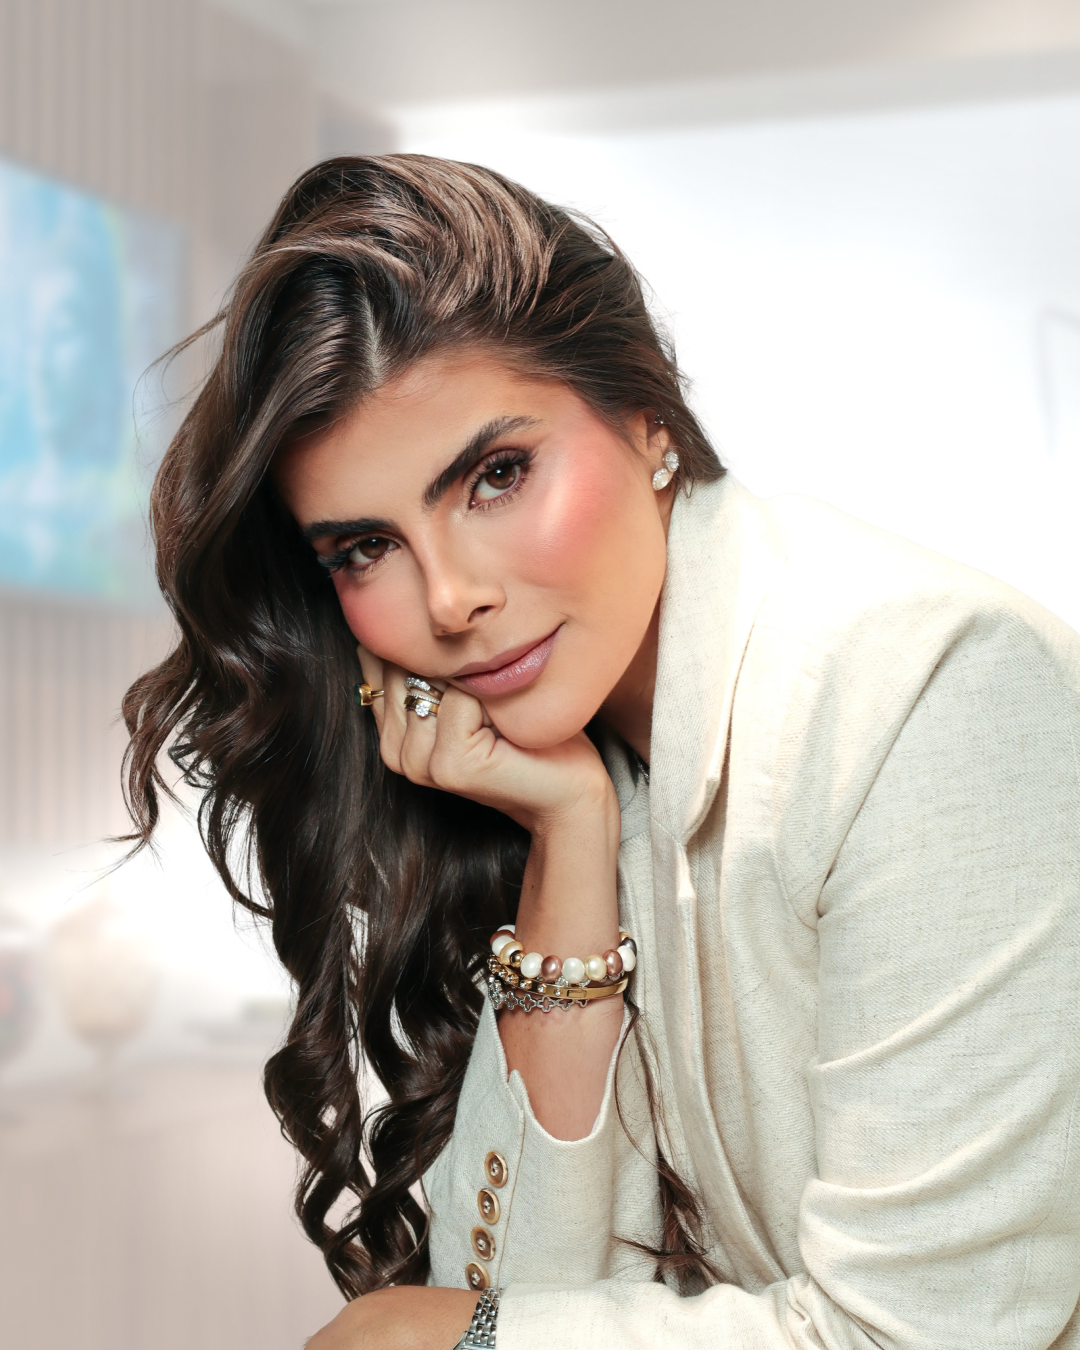
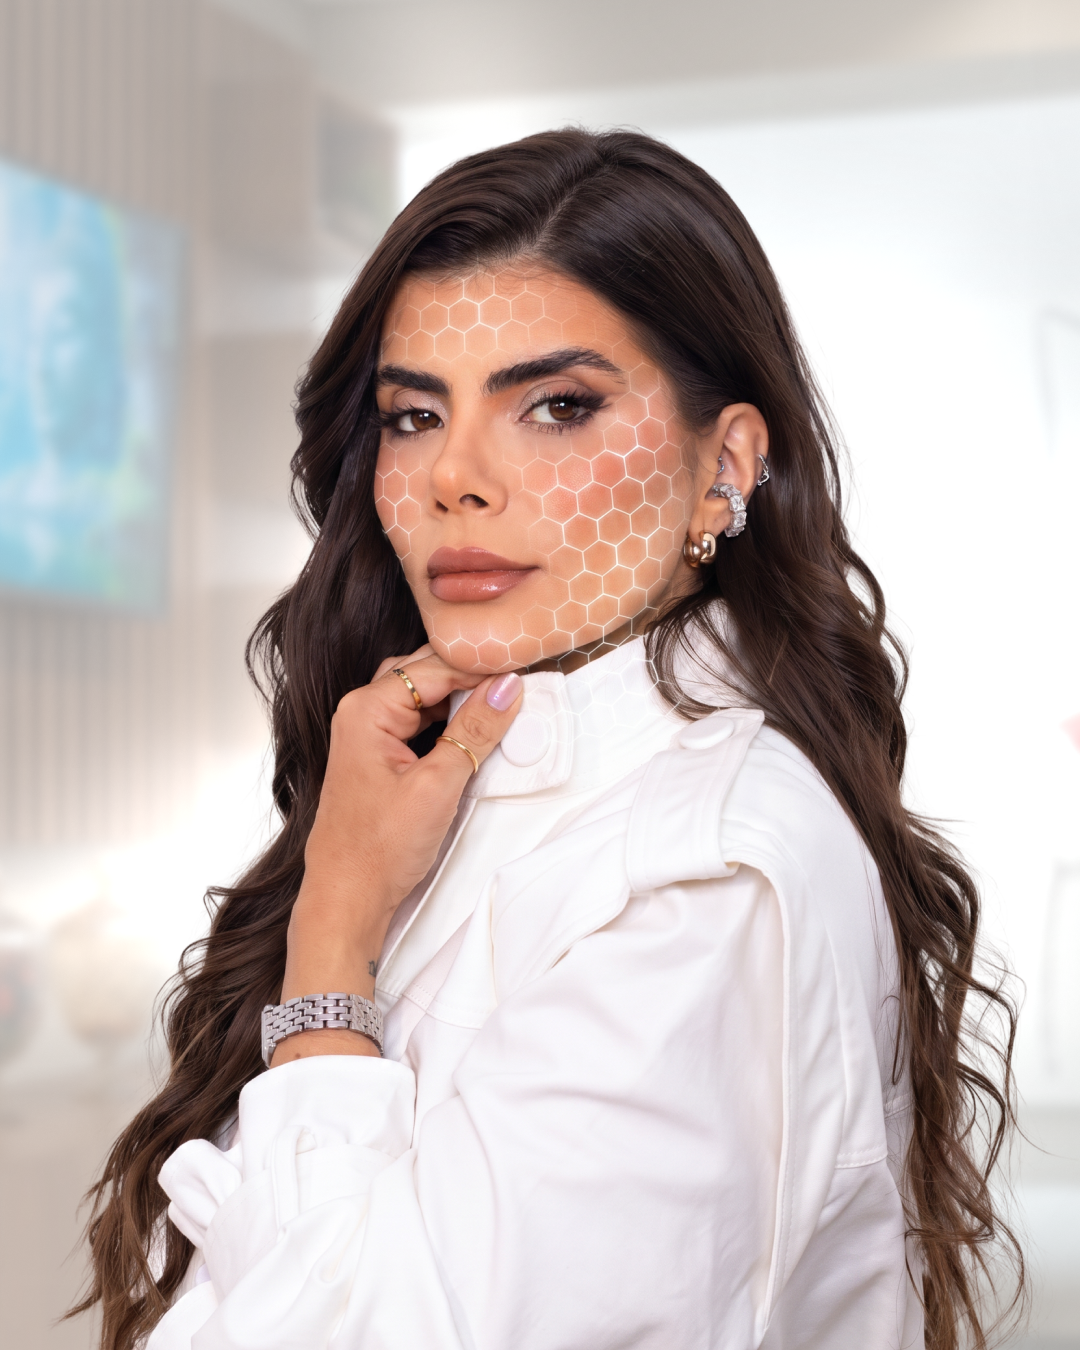
Add files via upload

diff --git a/index.html b/index.html
@@ -15,7 +15,7 @@
     <meta property="og:title" content="Clínica Jordana Barros — Estética e Harmonização Orofacial">
     <meta property="og:description" content="Sua melhor versão começa aqui. Muito mais que procedimentos, um cuidado personalizado que entende quem você é.">
     <meta property="og:url" content="https://www.clinicajordanabarros.com.br/">
-    <meta property="og:image" content="/assets/og-image-placeholder.jpg">
+    <meta property="og:image" content="assets/og-image-placeholder.jpg">
 
     <!-- Fontes Premium do Google Fonts (Cormorant Garamond & Manrope) -->
     <link rel="preconnect" href="https://fonts.googleapis.com">
@@ -99,8 +99,8 @@
       }
     }
     </script>
-  <script type="module" crossorigin src="./assets/index.Df4an_xH.js"></script>
-  <link rel="stylesheet" crossorigin href="./assets/index.BGvoUsd_.css">
+  <script type="module" crossorigin src="./assets/index.C8v16vC0.js"></script>
+  <link rel="stylesheet" crossorigin href="./assets/index.7_inCxo1.css">
 </head>
 <body>
 
@@ -108,7 +108,7 @@
     <header class="main-header">
         <div class="header-container">
             <a href="#" class="logo-area" aria-label="Página Inicial Clínica Jordana Barros">
-                <img src="./assets/logo-clinicajordana.svg" alt="Logo Clínica Jordana Barros" class="logo-img">
+                <img src="./assets/logo-clinicajordana.CLubRBv8.svg" alt="Logo Clínica Jordana Barros" class="logo-img">
             </a>
             <nav class="nav-menu" aria-label="Navegação Principal">
                 <a href="#experiencia" class="nav-link">A Clínica</a>
@@ -135,9 +135,9 @@
                 <div class="hero-content scroll-reveal">
                     <span class="section-tag gold-text">UM CONVITE AO SEU SONHO</span>
                     <h1 class="hero-title">Sua melhor versão começa aqui.</h1>
-                    <p class="hero-subtitle">
-                        Muito mais que procedimentos, um cuidado personalizado que entende quem você é e o que você deseja para a sua pele. Vamos juntas transformar o seu autocuidado?
-                    </p>
+                    <h2 class="hero-subtitle">
+                        Muito além de procedimentos isolados, oferecemos um cuidado personalizado que compreende a harmonia do seu rosto e do seu corpo, respeitando sempre a sua identidade. Vamos juntos transformar o seu autocuidado em um estilo de vida?
+                    </h2>
                     <div class="hero-actions">
                         <a href="#" class="btn btn-gold js-whatsapp-btn" data-origin="Hero Principal">
                             <span>Converse com a gente</span>
@@ -154,17 +154,19 @@
             <div class="section-container">
                 <div class="experience-grid">
                     <!-- Esquerda: Carrossel do Espaço -->
-                    <div class="space-carousel-wrapper scroll-reveal">
-                        <div class="space-carousel-track-container">
-                            <div class="space-carousel-track" id="spaceCarouselTrack">
-                                <div class="space-carousel-slide">
-                                    <img src="./assets/foto-recepção.jpg" alt="Recepção Aconhedora da Clínica Jordana Barros" class="space-carousel-img">
-                                </div>
-                                <div class="space-carousel-slide">
-                                    <img src="./assets/café-gourmet.jpg" alt="Café Gourmet e Acolhimento Exclusivo" class="space-carousel-img">
-                                </div>
-                                <div class="space-carousel-slide">
-                                    <img src="./assets/foto-espera.jpg" alt="Nosso Refúgio de Bem-Estar" class="space-carousel-img">
+                    <div class="space-carousel-container scroll-reveal">
+                        <div class="space-carousel-wrapper">
+                            <div class="space-carousel-track-container">
+                                <div class="space-carousel-track" id="spaceCarouselTrack">
+                                    <div class="space-carousel-slide">
+                                        <img src="./assets/foto-recepcao.CAFUkFNI.jpg" alt="Recepção Aconhedora da Clínica Jordana Barros" class="space-carousel-img">
+                                    </div>
+                                    <div class="space-carousel-slide">
+                                        <img src="./assets/cafe-gourmet.CMmhCZ-3.jpg" alt="Café Gourmet e Acolhimento Exclusivo" class="space-carousel-img">
+                                    </div>
+                                    <div class="space-carousel-slide">
+                                        <img src="./assets/foto-espera.DFV8MQ5g.jpg" alt="Nosso Refúgio de Bem-Estar" class="space-carousel-img">
+                                    </div>
                                 </div>
                             </div>
                         </div>
@@ -181,10 +183,10 @@
                         <h2 class="section-title">A Clínica Jordana Barros</h2>
                         <div class="section-divider"></div>
                         <p class="section-paragraph text-highlight">
-                            A Clínica Jordana Barros não é apenas um consultório. É o lugar onde a gente para o tempo para focar no que realmente importa: você, sua autoestima e a sua experiência.
+                            A Clínica Jordana Barros não é apenas um consultório. É um espaço onde não sentimos o tempo passar, desenhado para focar no que realmente importa: você.
                         </p>
                         <p class="section-paragraph">
-                            Aqui, cada detalhe foi planejado para que você se sinta em casa, cuidada por uma equipe que prioriza a sua escuta e o seu bem-estar acima de tudo. Entendemos que beleza não é sobre padrões, é sobre a sua essência. Nós cuidamos do seu rosto respeitando a sua identidade, valorizando o que você já tem de mais belo.
+                            Aliamos um atendimento profundamente acolhedor ao investimento constante nas melhores tecnologias e ativos do mercado, cuidando da sua autoestima e elevando a sua experiência. Afinal, para nós, a verdadeira beleza não segue padrões, ela respeita a sua identidade e valoriza a sua essência única.
                         </p>
                         <div class="experience-cta">
                             <a href="#" class="btn btn-outline js-whatsapp-btn" data-origin="Dobra A Clinica">
@@ -205,35 +207,67 @@
                     <!-- Esquerda: Informações da Dra. Jordana -->
                     <div class="authority-content scroll-reveal">
                         <span class="section-tag gold-text">O NOSSO JEITO DE CUIDAR</span>
-                        <h2 class="section-title">Cuidado que acolhe e transforma</h2>
-                        <div class="section-divider"></div>
+                        <h2 class="dra-name">Dra. Jordana Barros</h2>
+                        <p class="cro-tag">CRO-MG 41435</p>
                         
-                        <p class="section-paragraph text-highlight">
-                            Nossa atuação é guiada pela sensibilidade, pela escuta ativa e pelo compromisso em realizar o seu sonho de autocuidado.
-                        </p>
-                        
-                        <ul class="curriculum-list">
-                            <li class="curriculum-item">
-                                <svg class="curriculum-icon" xmlns="http://www.w3.org/2000/svg" fill="none" viewBox="0 0 24 24" stroke="currentColor">
-                                    <path stroke-linecap="round" stroke-linejoin="round" stroke-width="1.8" d="M5 13l4 4L19 7" />
-                                </svg>
-                                Criadora do autoral Ageless Skin Protocol™
-                            </li>
-                            <li class="curriculum-item">
-                                <svg class="curriculum-icon" xmlns="http://www.w3.org/2000/svg" fill="none" viewBox="0 0 24 24" stroke="currentColor">
-                                    <path stroke-linecap="round" stroke-linejoin="round" stroke-width="1.8" d="M5 13l4 4L19 7" />
-                                </svg>
-                                Referência em rejuvenescimento facial
-                            </li>
-                            <li class="curriculum-item">
-                                <svg class="curriculum-icon" xmlns="http://www.w3.org/2000/svg" fill="none" viewBox="0 0 24 24" stroke="currentColor">
-                                    <path stroke-linecap="round" stroke-linejoin="round" stroke-width="1.8" d="M5 13l4 4L19 7" />
-                                </svg>
-                                Formando especialistas em HOF
-                            </li>
-                        </ul>
-                        
-                        <p class="cro-tag">CRO 41435</p>
+                        <div class="curriculum-timeline">
+                            <div class="curriculum-card">
+                                <h3 class="curriculum-card-title">Fundação Sólida</h3>
+                                <p class="curriculum-card-text">Cirurgiã-Dentista graduada pela PUC Minas (2012).</p>
+                            </div>
+                            
+                            <div class="curriculum-card">
+                                <h3 class="curriculum-card-title">Mestrado e Especialização</h3>
+                                <p class="curriculum-card-text">Ortodontia e Ortopedia Funcional dos Maxilares — a base para o diagnóstico estrutural tridimensional da face.</p>
+                            </div>
+                            
+                            <div class="curriculum-card">
+                                <h3 class="curriculum-card-title">Especializações de Vanguarda</h3>
+                                <p class="curriculum-card-text">Especialista em Harmonização Orofacial (HOF) e Implantodontia.</p>
+                            </div>
+                            
+                            <div class="curriculum-card">
+                                <h3 class="curriculum-card-title">Autoridade de Mercado</h3>
+                                <p class="curriculum-card-text">Speaker oficial PHARMAESTHETICS e certificada Skin Pro por Anna Pegova.</p>
+                            </div>
+                            
+                            <div class="curriculum-card">
+                                <h3 class="curriculum-card-title">Educação e Inovação</h3>
+                                <p class="curriculum-card-text">CEO da Clínica e do Instituto Jordana Barros, criadora do método Ageless Skin Protocol™ e do treinamento avançado online HOF Setup.</p>
+                            </div>
+                        </div>
+
+                        <!-- Conexões Internacionais -->
+                        <div class="intl-connections-section">
+                            <h3 class="intl-title">Bagagem & Conexões Internacionais</h3>
+                            <p class="intl-subtitle">Nossos protocolos acompanham o que está acontecendo no topo do mercado global:</p>
+                            
+                            <div class="intl-connections-grid">
+                                <div class="intl-connection-card">
+                                    <span class="intl-year">2026</span>
+                                    <div class="intl-info">
+                                        <h4 class="intl-location">🌍 Mônaco</h4>
+                                        <p class="intl-details">Atualização no AMWC (Aesthetic & Anti-Aging Medicine World Congress).</p>
+                                    </div>
+                                </div>
+                                
+                                <div class="intl-connection-card">
+                                    <span class="intl-year">2025</span>
+                                    <div class="intl-info">
+                                        <h4 class="intl-location">🌍 Coreia do Sul</h4>
+                                        <p class="intl-details">Imersão no berço mundial da tecnologia da pele e estética regenerativa.</p>
+                                    </div>
+                                </div>
+                                
+                                <div class="intl-connection-card">
+                                    <span class="intl-year">2026</span>
+                                    <div class="intl-info">
+                                        <h4 class="intl-location">🌍 Chile</h4>
+                                        <p class="intl-details">Integração no Toxin Experts, o centro de discussões avançadas em toxina botulínica.</p>
+                                    </div>
+                                </div>
+                            </div>
+                        </div>
                         
                         <div class="authority-cta">
                             <a href="#" class="btn btn-gold js-whatsapp-btn" data-origin="Dobra Jeito de Cuidar">
@@ -242,9 +276,16 @@
                         </div>
                     </div>
                     
-                    <!-- Direita: Imagem de Atendimento -->
+                    <!-- Direita: Imagens da Dra. Jordana (Staggered Grid) -->
                     <div class="authority-image-wrapper scroll-reveal">
-                        <img src="./assets/foto-atendimento.jpg" alt="Dra. Jordana Barros realizando atendimento humanizado" class="authority-img-photo">
+                        <div class="bio-photo-grid">
+                            <div class="bio-img-primary-wrapper">
+                                <img src="./assets/foto-jordana.C6lESZ6M.JPEG" alt="Dra. Jordana Barros" class="bio-img-primary">
+                            </div>
+                            <div class="bio-img-secondary-wrapper">
+                                <img src="./assets/foto-atendimento.Lvo3y8vh.jpg" alt="Dra. Jordana Barros em atendimento" class="bio-img-secondary">
+                            </div>
+                        </div>
                     </div>
                 </div>
             </div>
@@ -373,7 +414,7 @@
                             <div class="carousel-slide">
                                 <div class="ba-card">
                                     <div class="ba-single-image">
-                                        <img src="./assets/antes-depois1.jpg" alt="Antes e Depois — Caso 1" class="ba-img" loading="lazy">
+                                        <img src="assets/antes-depois1.jpg" alt="Antes e Depois — Caso 1" class="ba-img" loading="lazy">
                                     </div>
                                 </div>
                             </div>
@@ -382,7 +423,7 @@
                             <div class="carousel-slide">
                                 <div class="ba-card">
                                     <div class="ba-single-image">
-                                        <img src="./assets/antes-depois2.jpg" alt="Antes e Depois — Caso 2" class="ba-img" loading="lazy">
+                                        <img src="assets/antes-depois2.jpg" alt="Antes e Depois — Caso 2" class="ba-img" loading="lazy">
                                     </div>
                                 </div>
                             </div>
@@ -391,7 +432,7 @@
                             <div class="carousel-slide">
                                 <div class="ba-card">
                                     <div class="ba-single-image">
-                                        <img src="./assets/antes-depois3.jpg" alt="Antes e Depois — Caso 3" class="ba-img" loading="lazy">
+                                        <img src="assets/antes-depois3.jpg" alt="Antes e Depois — Caso 3" class="ba-img" loading="lazy">
                                     </div>
                                 </div>
                             </div>
@@ -400,7 +441,7 @@
                             <div class="carousel-slide">
                                 <div class="ba-card">
                                     <div class="ba-single-image">
-                                        <img src="./assets/antes-depois4.jpg" alt="Antes e Depois — Caso 4" class="ba-img" loading="lazy">
+                                        <img src="assets/antes-depois4.jpg" alt="Antes e Depois — Caso 4" class="ba-img" loading="lazy">
                                     </div>
                                 </div>
                             </div>
@@ -409,7 +450,7 @@
                             <div class="carousel-slide">
                                 <div class="ba-card">
                                     <div class="ba-single-image">
-                                        <img src="./assets/antes-depois5.JPG" alt="Antes e Depois — Caso 5" class="ba-img" loading="lazy">
+                                        <img src="assets/antes-depois5.JPG" alt="Antes e Depois — Caso 5" class="ba-img" loading="lazy">
                                     </div>
                                 </div>
                             </div>
@@ -418,7 +459,7 @@
                             <div class="carousel-slide">
                                 <div class="ba-card">
                                     <div class="ba-single-image">
-                                        <img src="./assets/antes-depois6.JPG" alt="Antes e Depois — Caso 6" class="ba-img" loading="lazy">
+                                        <img src="assets/antes-depois6.JPG" alt="Antes e Depois — Caso 6" class="ba-img" loading="lazy">
                                     </div>
                                 </div>
                             </div>
@@ -427,7 +468,7 @@
                             <div class="carousel-slide">
                                 <div class="ba-card">
                                     <div class="ba-single-image">
-                                        <img src="./assets/antes-depois7.jpg" alt="Antes e Depois — Caso 7" class="ba-img" loading="lazy">
+                                        <img src="assets/antes-depois7.jpg" alt="Antes e Depois — Caso 7" class="ba-img" loading="lazy">
                                     </div>
                                 </div>
                             </div>
@@ -607,7 +648,7 @@
     <footer class="main-footer">
         <div class="footer-container">
             <div class="footer-brand">
-                <img src="./assets/logo-clinicajordana.svg" alt="Logo Clínica Jordana Barros" class="logo-img-footer">
+                <img src="./assets/logo-clinicajordana.CLubRBv8.svg" alt="Logo Clínica Jordana Barros" class="logo-img-footer">
             </div>
             
             <div class="footer-info">
@@ -617,6 +658,12 @@
                         <path stroke-linecap="round" stroke-linejoin="round" stroke-width="1.5" d="M15 11a3 3 0 11-6 0 3 3 0 016 0z" />
                     </svg>
                     Rua Major Lopes, Belo Horizonte - MG
+                </p>
+                <p class="footer-phone">
+                    <svg xmlns="http://www.w3.org/2000/svg" fill="none" viewBox="0 0 24 24" stroke="currentColor" class="footer-icon">
+                        <path stroke-linecap="round" stroke-linejoin="round" stroke-width="1.5" d="M3 5a2 2 0 012-2h3.28a1 1 0 01.94.725l.548 2.2a1 1 0 01-.321.988l-1.305.98a10.582 10.582 0 004.872 4.872l.98-1.305a1 1 0 01.988-.321l2.2.548a1 1 0 01.725.94V19a2 2 0 01-2 2h-1C9.716 21 3 14.284 3 6V5z" />
+                    </svg>
+                    <a href="https://wa.me/5531999104501" target="_blank" rel="noopener noreferrer" class="footer-phone-link">+55 (31) 99910-4501</a>
                 </p>
                 <p class="footer-cro">
                     Dra. Jordana Barros · CRO-MG 41435

diff --git a/assets/index.7_inCxo1.css b/assets/index.7_inCxo1.css
@@ -1,0 +1,1 @@
+@font-face{font-family:Elsie Swash Caps;src:url(./ElsieSwashCaps-Regular.CObMUHsu.ttf) format("truetype");font-weight:400;font-style:normal;font-display:swap}@font-face{font-family:Elsie Swash Caps;src:url(./ElsieSwashCaps-Black.hFjvdWo1.ttf) format("truetype");font-weight:900;font-style:normal;font-display:swap}:root{--color-bg-primary: #FAF8F5;--color-bg-secondary: #FFFFFF;--color-bg-tertiary: #F3EFEA;--color-text-primary: #2D2521;--color-text-secondary: #60544E;--color-text-light: #9B8E85;--color-border: #E8E3DB;--color-border-hover: #D6CDBF;--color-gold: #C5A059;--color-gold-hover: #B28D46;--color-gold-light: rgba(197, 160, 89, .08);--color-whatsapp: #25D366;--font-serif: "Manrope", sans-serif;--font-sans: "Manrope", sans-serif;--spacing-xs: .5rem;--spacing-sm: 1rem;--spacing-md: 2rem;--spacing-lg: 6rem;--spacing-xl: 10rem;--transition-fast: .2s ease;--transition-normal: .4s cubic-bezier(.25, .46, .45, .94);--transition-slow: .7s cubic-bezier(.16, 1, .3, 1);--shadow-premium: 0 10px 40px rgba(45, 37, 33, .02);--shadow-card: 0 20px 50px rgba(45, 37, 33, .03);--shadow-glass: 0 8px 32px rgba(197, 160, 89, .05)}*{margin:0;padding:0;box-sizing:border-box}html{scroll-behavior:smooth;font-size:16px}body{font-family:var(--font-sans);color:var(--color-text-primary);background-color:var(--color-bg-primary);line-height:1.8;-webkit-font-smoothing:antialiased;overflow-x:hidden}a:focus-visible,button:focus-visible{outline:2px solid var(--color-gold);outline-offset:4px}h1,h2,h3,h4{font-family:var(--font-serif);font-weight:700;line-height:1.25;letter-spacing:-.02em;color:var(--color-text-primary)}.white-text{color:var(--color-bg-secondary)!important}.gold-text{color:var(--color-gold)!important}.light-gray-text{color:var(--color-text-light)!important}.section-tag{font-family:var(--font-sans);font-size:.75rem;font-weight:600;letter-spacing:.2em;text-transform:uppercase;display:inline-block;margin-bottom:1rem}.section-title{font-size:2.2rem;margin-bottom:1.5rem;text-wrap:balance;font-weight:300}.section-subtitle{font-size:1.15rem;color:var(--color-text-secondary);max-width:650px;margin:0 auto;font-weight:300;line-height:1.7}.section-divider{width:50px;height:1px;background-color:var(--color-gold);margin-bottom:2rem}.center-divider{margin-left:auto;margin-right:auto}.gold-bg{background-color:var(--color-gold)!important}.section-paragraph{margin-bottom:1.5rem;font-size:1.05rem;color:var(--color-text-secondary)}.section-paragraph.text-highlight{font-size:1.25rem;color:var(--color-text-primary);font-weight:400;line-height:1.7}.section-paragraph.text-highlight-white{font-size:1.25rem;color:var(--color-bg-secondary);font-weight:300;line-height:1.7}.section-paragraph.text-strong-gold{color:var(--color-gold);font-weight:500}.section-container{max-width:1200px;margin:0 auto;padding:var(--spacing-lg) var(--spacing-md)}@media (min-width: 768px){.section-container{padding:var(--spacing-xl) var(--spacing-md)}.section-title{font-size:3rem}}.btn{display:inline-flex;flex-direction:column;align-items:center;justify-content:center;text-decoration:none;font-family:var(--font-sans);font-weight:500;text-transform:uppercase;font-size:.8rem;letter-spacing:.12em;padding:1.1rem 2.8rem;border-radius:50px;transition:var(--transition-normal),transform .3s cubic-bezier(.16,1,.3,1);position:relative;cursor:pointer;text-align:center;overflow:hidden}.btn:after{content:"";position:absolute;top:0;left:-150%;width:60%;height:100%;background:linear-gradient(90deg,transparent,rgba(255,255,255,.4),transparent);transform:skew(-20deg)}.btn:hover:after{animation:btnShine 1.2s ease-in-out}@keyframes btnShine{0%{left:-150%}to{left:150%}}.btn-gold{background-color:var(--color-gold);color:var(--color-bg-secondary);border:1px solid var(--color-gold);box-shadow:0 10px 25px #c5a05926}.btn-gold:hover{background-color:var(--color-gold-hover);border-color:var(--color-gold-hover);transform:translateY(-3px);box-shadow:0 12px 30px #c5a05940}.btn-gold:active{transform:translateY(-1px)}.btn-subtext{font-size:.65rem;text-transform:none;letter-spacing:.05em;opacity:.9;margin-top:.2rem;font-weight:400}.btn-outline{background-color:transparent;color:var(--color-text-primary);border:1px solid var(--color-border);box-shadow:var(--shadow-premium)}.btn-outline:hover{background-color:var(--color-text-primary);color:var(--color-bg-secondary);border-color:var(--color-text-primary);transform:translateY(-3px);box-shadow:0 10px 25px #2d252114}.btn-outline:active{transform:translateY(-1px)}.btn-nav{padding:.65rem 1.8rem;font-size:.75rem;border:1px solid var(--color-gold);color:var(--color-gold);background-color:transparent;border-radius:50px}.btn-nav:hover{background-color:var(--color-gold);color:var(--color-bg-secondary)}.elegant-placeholder{width:100%;height:100%;min-height:300px;display:flex;flex-direction:column;align-items:center;justify-content:center;position:relative;padding:var(--spacing-md);text-align:center;border:1px solid transparent;transition:var(--transition-normal)}.dark-placeholder{background:linear-gradient(135deg,var(--color-dark-gray) 0%,var(--color-medium-gray) 100%);border-color:#c5a05926}.dark-placeholder:hover{border-color:#c5a05966}.dark-placeholder .placeholder-label,.dark-placeholder .placeholder-label-small{color:var(--color-white)}.dark-placeholder .placeholder-desc{color:#8e8e93}.dark-placeholder .placeholder-icon{stroke:var(--color-gold);opacity:.45}.light-placeholder{background:linear-gradient(135deg,#F2EFE9 0%,var(--color-off-white) 100%);border-color:var(--color-border-light)}.light-placeholder:hover{border-color:var(--color-gold);box-shadow:var(--shadow-premium)}.light-placeholder .placeholder-label-small{color:var(--color-dark-gray)}.light-placeholder .placeholder-icon{stroke:var(--color-dark-gray);opacity:.25}.placeholder-icon{width:48px;height:48px;margin-bottom:1.2rem;transition:var(--transition-normal)}.elegant-placeholder:hover .placeholder-icon{transform:scale(1.1);opacity:.7}.placeholder-label{font-family:var(--font-serif);font-size:1.2rem;letter-spacing:.05em;font-weight:500;margin-bottom:.5rem}.placeholder-label-small{font-family:var(--font-sans);font-size:.7rem;font-weight:700;letter-spacing:.15em;text-transform:uppercase}.placeholder-desc{font-size:.75rem;max-width:280px;line-height:1.5}.placeholder-overlay{position:absolute;top:0;left:0;right:0;bottom:0;background:radial-gradient(circle at center,transparent 30%,rgba(10,10,10,.4) 100%);pointer-events:none}.label-badge{position:absolute;bottom:1rem;background-color:#0a0a0ad9;color:var(--color-white);font-size:.65rem;font-weight:700;letter-spacing:.1em;padding:.4rem .8rem;border:1px solid rgba(255,255,255,.1)}.badge-left{left:1rem}.badge-right{right:1rem;border-color:var(--color-gold);color:var(--color-gold)}.main-header{position:fixed;top:0;left:0;width:100%;z-index:100;background-color:#faf8f599;backdrop-filter:blur(16px);-webkit-backdrop-filter:blur(16px);border-bottom:1px solid rgba(197,160,89,.04);transition:background-color .4s ease,border-bottom .4s ease,box-shadow .4s ease,backdrop-filter .4s ease}.main-header.scrolled{background-color:#ffffffd9;backdrop-filter:blur(20px);-webkit-backdrop-filter:blur(20px);border-bottom:1px solid rgba(197,160,89,.12);box-shadow:0 8px 30px #2d25210a}.header-container{max-width:1300px;margin:0 auto;padding:1.2rem var(--spacing-md);display:flex;align-items:center;justify-content:space-between;transition:padding .4s ease}.main-header.scrolled .header-container{padding:.8rem var(--spacing-md)}.logo-area{display:flex;align-items:center;text-decoration:none}.logo-img{height:60px;width:auto;max-width:100%;object-fit:contain}.logo-img-footer{height:75px;width:auto;max-width:100%;object-fit:contain}.logo-area .brand-name{font-family:var(--font-serif);font-size:1.1rem;font-weight:400;letter-spacing:.1em}.logo-area .brand-subtitle{font-family:var(--font-sans);font-size:.55rem;font-weight:700;letter-spacing:.25em;color:var(--color-gold);margin-top:.1rem}.nav-menu{display:none;gap:var(--spacing-md)}.nav-link{text-decoration:none;font-family:var(--font-sans);font-size:.75rem;font-weight:500;text-transform:uppercase;letter-spacing:.15em;color:var(--color-text-secondary);transition:var(--transition-fast)}.nav-link:hover{color:var(--color-gold)}.header-cta{display:none}@media (min-width: 992px){.nav-menu{display:flex}.header-cta{display:block}}.hero-section{background-color:var(--color-bg-primary);background-image:linear-gradient(180deg,#faf8f5d9,#faf8f5a6,#faf8f533),url(./foto-banner-mobile.BjY-vwmR.png);background-size:cover;background-position:center;background-repeat:no-repeat;padding-top:100px;position:relative;overflow:hidden}.hero-container{max-width:1200px;margin:0 auto;padding:var(--spacing-lg) var(--spacing-md);display:flex;flex-direction:column;gap:var(--spacing-lg)}.hero-content{display:flex;flex-direction:column;justify-content:center;width:100%;z-index:2}.hero-title{color:var(--color-text-primary);font-size:2.8rem;line-height:1.15;margin-bottom:1.5rem;font-weight:700}.hero-subtitle{color:var(--color-text-secondary);font-size:1.1rem;font-weight:400;line-height:1.8;margin-bottom:2.5rem;max-width:580px}.hero-actions{display:flex;flex-direction:column;align-items:flex-start}@media (min-width: 992px){.hero-section{background-image:linear-gradient(to right,#faf8f5f2 35%,#faf8f580 70%,#faf8f500),url(./foto-banner.CVG7EtMg.png);padding-top:120px;min-height:calc(100vh - 20px);display:flex;align-items:center}.hero-container{width:100%}.hero-content{max-width:680px}.hero-title{font-size:3.5rem}}.experience-section{background-color:var(--color-bg-secondary);background-image:linear-gradient(180deg,var(--color-bg-primary) 0%,var(--color-bg-secondary) 100%)}.experience-grid{display:grid;grid-template-columns:1fr;gap:var(--spacing-lg);align-items:center}.space-carousel-wrapper{position:relative;width:100%;overflow:hidden;border-radius:32px;box-shadow:var(--shadow-card);border:1px solid var(--color-border);transform:translateZ(0);isolation:isolate}.space-carousel-track-container{overflow:hidden;width:100%}.space-carousel-track{display:flex;transition:transform var(--transition-slow);width:100%}.space-carousel-slide{min-width:100%;width:100%;flex-shrink:0;aspect-ratio:4 / 3;overflow:hidden}.space-carousel-img{width:100%;height:100%;object-fit:cover;object-position:center;transition:var(--transition-normal)}.space-carousel-wrapper:hover .space-carousel-img{transform:scale(1.03)}.space-carousel-controls{display:flex;align-items:center;justify-content:center;gap:1.5rem;margin-top:1.5rem}.space-carousel-dots{display:flex;gap:.6rem}.space-carousel-dot{width:7px;height:7px;border-radius:50%;background-color:var(--color-border);border:none;cursor:pointer;transition:var(--transition-fast);padding:0}.space-carousel-dot.active{background-color:var(--color-gold);transform:scale(1.25)}.experience-content{display:flex;flex-direction:column;justify-content:center}.experience-cta{margin-top:2rem}@media (min-width: 992px){.experience-grid{grid-template-columns:1fr 1fr;gap:var(--spacing-lg)}}.authority-section{background-color:var(--color-bg-tertiary)}.authority-grid{display:grid;grid-template-columns:1fr;gap:var(--spacing-lg);align-items:flex-start}.authority-content{display:flex;flex-direction:column;justify-content:center}.dra-name{font-family:Elsie Swash Caps,serif;font-size:3rem;font-weight:900;color:var(--color-text-primary);margin-top:.5rem;margin-bottom:.5rem}.authority-content .cro-tag{margin-bottom:3rem}.curriculum-timeline{display:flex;flex-direction:column;gap:2.2rem;margin-bottom:3.5rem}.curriculum-card{border-left:2px solid var(--color-border);padding-left:1.8rem;transition:var(--transition-normal)}.curriculum-card:hover{border-left-color:var(--color-gold)}.curriculum-card-title{font-family:var(--font-sans);font-size:1.05rem;font-weight:700;color:var(--color-text-primary);margin-bottom:.5rem;letter-spacing:.02em}.curriculum-card-text{font-size:.95rem;color:var(--color-text-secondary);line-height:1.7}.intl-connections-section{margin-top:1rem;margin-bottom:4rem;padding-top:3rem;border-top:1px solid var(--color-border)}.intl-title{font-family:var(--font-serif);font-size:1.8rem;font-weight:300;color:var(--color-text-primary);margin-bottom:.8rem}.intl-subtitle{font-size:.95rem;color:var(--color-text-secondary);margin-bottom:2.5rem}.intl-connections-grid{display:grid;grid-template-columns:1fr;gap:2rem}.intl-connection-card{display:flex;flex-direction:column;gap:.5rem}.intl-year{font-family:"Cormorant Garamond",var(--font-serif);font-size:3.5rem;font-weight:300;color:var(--color-gold);line-height:1}.intl-info{display:flex;flex-direction:column;gap:.3rem}.intl-location{font-family:var(--font-sans);font-size:.95rem;font-weight:700;color:var(--color-text-primary)}.intl-details{font-size:.85rem;color:var(--color-text-secondary);line-height:1.5}.authority-cta{margin-top:1rem}.authority-image-wrapper{width:100%}.bio-photo-grid{position:relative;width:100%;height:480px}.bio-img-primary-wrapper{width:80%;height:400px;border-radius:28px;overflow:hidden;box-shadow:var(--shadow-card);border:1px solid var(--color-border)}.bio-img-primary{width:100%;height:100%;object-fit:cover;object-position:center;transition:var(--transition-normal)}.bio-img-secondary-wrapper{position:absolute;right:0;bottom:0;width:58%;height:250px;border-radius:20px;overflow:hidden;box-shadow:var(--shadow-card);border:6px solid var(--color-bg-tertiary)}.bio-img-secondary{width:100%;height:100%;object-fit:cover;object-position:center;transition:var(--transition-normal)}.bio-photo-grid:hover .bio-img-primary{transform:scale(1.02)}.bio-photo-grid:hover .bio-img-secondary{transform:scale(1.04)}@media (min-width: 768px){.intl-connections-grid{grid-template-columns:repeat(3,1fr);gap:1.5rem}.bio-photo-grid{height:600px}.bio-img-primary-wrapper{height:520px}.bio-img-secondary-wrapper{height:320px}}@media (min-width: 992px){.authority-grid{grid-template-columns:1fr 1.15fr;gap:var(--spacing-xl)}.dra-name{font-size:3.8rem}.authority-content{order:1}.authority-image-wrapper{order:2;position:sticky;top:120px}}.protocols-section{background-color:var(--color-bg-secondary)}.section-header{text-align:center;margin-bottom:var(--spacing-lg)}.protocols-grid{display:grid;grid-template-columns:1fr;gap:2rem;margin-bottom:var(--spacing-lg)}.protocol-card{background-color:var(--color-bg-secondary);border:1px solid var(--color-border);border-radius:24px;padding:3rem 2.2rem;display:flex;flex-direction:column;gap:1.2rem;transition:var(--transition-normal);box-shadow:var(--shadow-premium)}.protocol-card:hover{transform:translateY(-5px);border-color:var(--color-border-hover);box-shadow:var(--shadow-card)}.protocol-card-icon{width:32px;height:32px;stroke:var(--color-gold);stroke-width:1.2;margin-bottom:.3rem}.protocol-card-title{font-size:1.4rem;font-weight:400;line-height:1.3;color:var(--color-text-primary)}.protocol-card-tag{font-family:var(--font-sans);font-size:.75rem;font-weight:600;letter-spacing:.05em;color:var(--color-text-light);text-transform:uppercase;margin-top:-.8rem}.protocol-card-quote{font-family:var(--font-serif);font-size:1.15rem;font-style:italic;color:var(--color-gold-hover);line-height:1.4;border-left:2px solid var(--color-gold);padding-left:.8rem;margin:.2rem 0}.protocol-card-text{font-size:.95rem;color:var(--color-text-secondary);line-height:1.75}.protocol-card:hover{transform:translateY(-5px);border-color:var(--color-gold);box-shadow:var(--shadow-card)}.card-image-wrapper{width:100%;height:220px;overflow:hidden}.protocol-img{width:100%;height:100%;object-fit:cover;object-position:center;transition:transform .5s cubic-bezier(.25,1,.5,1)}.protocol-card:hover .protocol-img{transform:scale(1.06)}.card-image-wrapper .elegant-placeholder{min-height:auto}.card-content{padding:2.2rem var(--spacing-md);flex-grow:1;display:flex;flex-direction:column}.card-title{font-size:1.6rem;margin-bottom:1rem}.card-text{font-size:.95rem;color:#636366;line-height:1.7}.protocols-cta{text-align:center}@media (min-width: 768px){.protocols-grid{grid-template-columns:repeat(2,1fr)}}@media (min-width: 992px){.protocols-grid{grid-template-columns:repeat(3,1fr);gap:var(--spacing-md)}}.validation-section{background-color:var(--color-bg-primary);overflow:hidden}.carousel-wrapper{position:relative;max-width:600px;margin:0 auto var(--spacing-lg);padding:0;overflow:hidden}.carousel-track-container{overflow:hidden;width:100%}.carousel-track{display:flex;transition:transform var(--transition-slow);width:100%}.carousel-slide{min-width:100%;width:100%;flex-shrink:0;padding:0;box-sizing:border-box}.ba-card{background-color:var(--color-bg-secondary);border:1px solid var(--color-border);border-radius:24px;box-shadow:var(--shadow-card);overflow:hidden}.ba-label{font-family:var(--font-sans);font-size:.75rem;font-weight:600;letter-spacing:.1em;text-transform:uppercase;color:var(--color-gold);text-align:center;padding:1.2rem 1.2rem 1rem;border-bottom:1px solid var(--color-border)}.ba-single-image{width:100%;aspect-ratio:1 / 1;background-color:var(--color-bg-tertiary);display:flex;align-items:center;justify-content:center;overflow:hidden}.ba-img{width:100%;height:100%;object-fit:cover;object-position:center;transition:transform var(--transition-normal)}.ba-card:hover .ba-img{transform:scale(1.03)}.ba-images{display:grid;grid-template-columns:1fr 1fr;gap:0;width:100%}.ba-image-box{position:relative;overflow:hidden}.ba-image-box .elegant-placeholder{min-height:180px;padding:1rem;background:linear-gradient(135deg,var(--color-bg-primary) 0%,var(--color-bg-secondary) 100%)}.ba-tag{position:absolute;top:.8rem;left:.8rem;z-index:2;background-color:#2d2521cc;color:var(--color-bg-secondary);font-family:var(--font-sans);font-size:.6rem;font-weight:700;letter-spacing:.12em;text-transform:uppercase;padding:.35rem .7rem;border-radius:4px;border:1px solid rgba(255,255,255,.1)}.ba-tag-after{background-color:#c5a059e6;border-color:var(--color-gold);color:var(--color-bg-secondary)}.ba-image-box:first-child{border-right:1px solid var(--color-border)}.carousel-controls{display:flex;align-items:center;justify-content:center;gap:1.5rem;margin-top:1.5rem}.carousel-btn{background:transparent;border:1px solid var(--color-border);width:44px;height:44px;border-radius:50%;cursor:pointer;display:flex;align-items:center;justify-content:center;transition:var(--transition-fast);flex-shrink:0;color:var(--color-text-secondary)}.carousel-btn:hover{border-color:var(--color-gold);color:var(--color-gold)}.carousel-btn svg{width:20px;height:20px}.carousel-dots{display:flex;gap:.6rem}.carousel-dot{width:7px;height:7px;border-radius:50%;background-color:var(--color-border);border:none;cursor:pointer;transition:var(--transition-fast);padding:0}.carousel-dot.active{background-color:var(--color-gold);transform:scale(1.25)}.validation-cta{text-align:center}@media (min-width: 768px){.ba-image-box .elegant-placeholder{min-height:320px}.ba-label{font-size:.8rem;padding:1.2rem 1.5rem 1rem}.ba-tag{font-size:.65rem;padding:.4rem .8rem;top:1rem;left:1rem}}.faq-section{background-color:var(--color-bg-secondary);border-top:1px solid var(--color-border)}.faq-accordion-wrapper{max-width:800px;margin:0 auto var(--spacing-lg)}.faq-item{border-bottom:1px solid var(--color-border)}.faq-trigger{width:100%;background:none;border:none;text-align:left;padding:1.8rem 0;display:flex;justify-content:space-between;align-items:center;cursor:pointer;font-family:var(--font-serif);font-size:1.35rem;color:var(--color-text-primary);transition:var(--transition-fast)}.faq-trigger:hover{color:var(--color-gold)}.faq-question{padding-right:var(--spacing-md)}.faq-icon-wrapper{flex-shrink:0;width:28px;height:28px;border:1px solid var(--color-border);border-radius:50%;display:flex;align-items:center;justify-content:center;transition:var(--transition-normal);color:var(--color-text-secondary)}.faq-trigger:hover .faq-icon-wrapper{border-color:var(--color-gold);color:var(--color-gold)}.faq-arrow-icon{width:14px;height:14px;transition:var(--transition-normal)}.faq-trigger[aria-expanded=true] .faq-arrow-icon{transform:rotate(180deg)}.faq-trigger[aria-expanded=true] .faq-icon-wrapper{border-color:var(--color-gold);background-color:var(--color-gold);color:var(--color-bg-secondary)}.faq-panel{max-height:0;overflow:hidden;transition:max-height var(--transition-normal)}.faq-content-inner{padding-bottom:2rem;font-size:.98rem;color:var(--color-text-secondary);line-height:1.8}.faq-cta-mestre{text-align:center}.main-footer{background-color:var(--color-bg-tertiary);color:var(--color-text-secondary);border-top:1px solid var(--color-border)}.footer-container{max-width:1200px;margin:0 auto;padding:var(--spacing-lg) var(--spacing-md);display:grid;grid-template-columns:1fr;gap:var(--spacing-md)}.footer-brand{display:flex;flex-direction:column}.footer-brand .brand-name{font-family:var(--font-serif);color:var(--color-text-primary);font-size:1.25rem;letter-spacing:.1em}.footer-brand .brand-sub{font-size:.65rem;text-transform:uppercase;letter-spacing:.2em;color:var(--color-gold);margin-top:.2rem}.footer-info{font-size:.85rem}.footer-address,.footer-phone{display:flex;align-items:center;gap:.5rem;margin-bottom:.5rem;color:var(--color-text-primary)}.footer-phone-link{color:var(--color-text-primary);text-decoration:none;transition:var(--transition-fast)}.footer-phone-link:hover{color:var(--color-gold)}.footer-icon{width:16px;height:16px;stroke:var(--color-gold)}.footer-cro{font-size:.8rem;color:var(--color-text-light);margin-top:.8rem}.footer-legal{border-top:1px solid var(--color-border);padding-top:2rem;font-size:.75rem;line-height:1.6;color:var(--color-text-light)}.legal-disclaimer{margin-top:1rem;color:var(--color-text-light)}.studio-link{color:var(--color-gold);text-decoration:none;font-weight:600;transition:var(--transition-fast)}.studio-link:hover{color:var(--color-gold-hover);text-decoration:underline}@media (min-width: 768px){.footer-container{grid-template-columns:repeat(2,1fr);gap:var(--spacing-lg)}.footer-legal{grid-column:1 / -1}}.whatsapp-float{position:fixed;bottom:30px;right:30px;width:60px;height:60px;background-color:var(--color-whatsapp);color:var(--color-bg-secondary);border-radius:50%;display:flex;align-items:center;justify-content:center;z-index:999;box-shadow:0 8px 25px #25d36640;transition:var(--transition-normal)}.whatsapp-float:hover{transform:scale(1.1);background-color:#20ba56;box-shadow:0 10px 30px #25d36659}.whatsapp-icon{width:30px;height:30px}.whatsapp-pulse-ring{position:absolute;top:0;left:0;width:100%;height:100%;border-radius:50%;background-color:var(--color-whatsapp);opacity:.6;z-index:-1;animation:whatsappPulse 5s infinite ease-out}@keyframes whatsappPulse{0%{transform:scale(1);opacity:.6}15%{transform:scale(1.5);opacity:0}to{transform:scale(1.5);opacity:0}}.scroll-reveal{opacity:0;transform:translateY(30px) scale(.98);transition:opacity 1s cubic-bezier(.16,1,.3,1),transform 1s cubic-bezier(.16,1,.3,1)}.scroll-reveal.active{opacity:1;transform:translateY(0) scale(1)}

diff --git a/assets/index.C8v16vC0.js b/assets/index.C8v16vC0.js
@@ -1,0 +1,1 @@
+(function(){const p=document.createElement("link").relList;if(p&&p.supports&&p.supports("modulepreload"))return;for(const s of document.querySelectorAll('link[rel="modulepreload"]'))v(s);new MutationObserver(s=>{for(const n of s)if(n.type==="childList")for(const o of n.addedNodes)o.tagName==="LINK"&&o.rel==="modulepreload"&&v(o)}).observe(document,{childList:!0,subtree:!0});function m(s){const n={};return s.integrity&&(n.integrity=s.integrity),s.referrerPolicy&&(n.referrerPolicy=s.referrerPolicy),s.crossOrigin==="use-credentials"?n.credentials="include":s.crossOrigin==="anonymous"?n.credentials="omit":n.credentials="same-origin",n}function v(s){if(s.ep)return;s.ep=!0;const n=m(s);fetch(s.href,n)}})();document.addEventListener("DOMContentLoaded",()=>{const L=()=>{const o=LP_CONFIG.whatsappNumber,r=encodeURIComponent(LP_CONFIG.defaultMessage),a=`https://wa.me/${o}?text=${r}`;document.querySelectorAll(".js-whatsapp-btn").forEach(t=>{t.href=a,t.target="_blank",t.rel="noopener noreferrer",t.addEventListener("click",()=>{const c=t.getAttribute("data-origin")||"Link Não Identificado";trackConversion(`whatsapp_click_${c.replace(/\s+/g,"_").toLowerCase()}`)})})},p=()=>{const o=document.querySelectorAll(".faq-trigger");o.forEach(r=>{r.addEventListener("click",()=>{const a=document.getElementById(r.getAttribute("aria-controls")),l=r.getAttribute("aria-expanded")==="true";o.forEach(t=>{if(t!==r){t.setAttribute("aria-expanded","false");const c=document.getElementById(t.getAttribute("aria-controls"));c.style.maxHeight=null}}),l?(r.setAttribute("aria-expanded","false"),a.style.maxHeight=null):(r.setAttribute("aria-expanded","true"),a.style.maxHeight=a.scrollHeight+"px")})})},m=({trackId:o,dotsId:r,nextBtnId:a,prevBtnId:l})=>{const t=document.getElementById(o);if(!t)return;const c=Array.from(t.children);if(c.length<=1)return;const h=document.getElementById(r),y=a?document.getElementById(a):null,g=l?document.getElementById(l):null;let i=0,E=[];h&&(h.innerHTML="",c.forEach((e,d)=>{const f=document.createElement("button");f.classList.add(r==="spaceCarouselDots"?"space-carousel-dot":"carousel-dot"),f.setAttribute("aria-label",`Ir para o slide ${d+1}`),d===0&&f.classList.add("active"),f.addEventListener("click",()=>u(d)),h.appendChild(f),E.push(f)}));const w=e=>{E.length>0&&(E.forEach(d=>d.classList.remove("active")),E[e].classList.add("active"))},u=e=>{e<0?e=c.length-1:e>=c.length&&(e=0),t.style.transform=`translateX(-${e*100}%)`,i=e,w(i)};y&&y.addEventListener("click",()=>{u(i+1)}),g&&g.addEventListener("click",()=>{u(i-1)});let b=0,A=0;t.addEventListener("touchstart",e=>{b=e.changedTouches[0].screenX},{passive:!0}),t.addEventListener("touchend",e=>{A=e.changedTouches[0].screenX,I()},{passive:!0});const I=()=>{const e=A-b;e<-50?u(i+1):e>50&&u(i-1)};if(o==="spaceCarouselTrack"){let e=setInterval(()=>{u(i+1)},6e3);const d=()=>{clearInterval(e),e=setInterval(()=>{u(i+1)},6e3)};t.addEventListener("touchstart",d,{passive:!0}),h&&h.addEventListener("click",d)}},v=()=>{m({trackId:"spaceCarouselTrack",dotsId:"spaceCarouselDots"}),m({trackId:"carouselTrack",dotsId:"carouselDots",nextBtnId:"carouselNextBtn",prevBtnId:"carouselPrevBtn"})},s=()=>{const o=document.querySelectorAll(".scroll-reveal"),r={root:null,rootMargin:"0px",threshold:.15},a=new IntersectionObserver((l,t)=>{l.forEach(c=>{c.isIntersecting&&(c.target.classList.add("active"),t.unobserve(c.target))})},r);o.forEach(l=>{a.observe(l)})},n=()=>{const o=document.querySelector(".main-header"),r=()=>{window.scrollY>50?o.classList.add("scrolled"):o.classList.remove("scrolled")};r(),window.addEventListener("scroll",r)};L(),p(),v(),s(),n()});